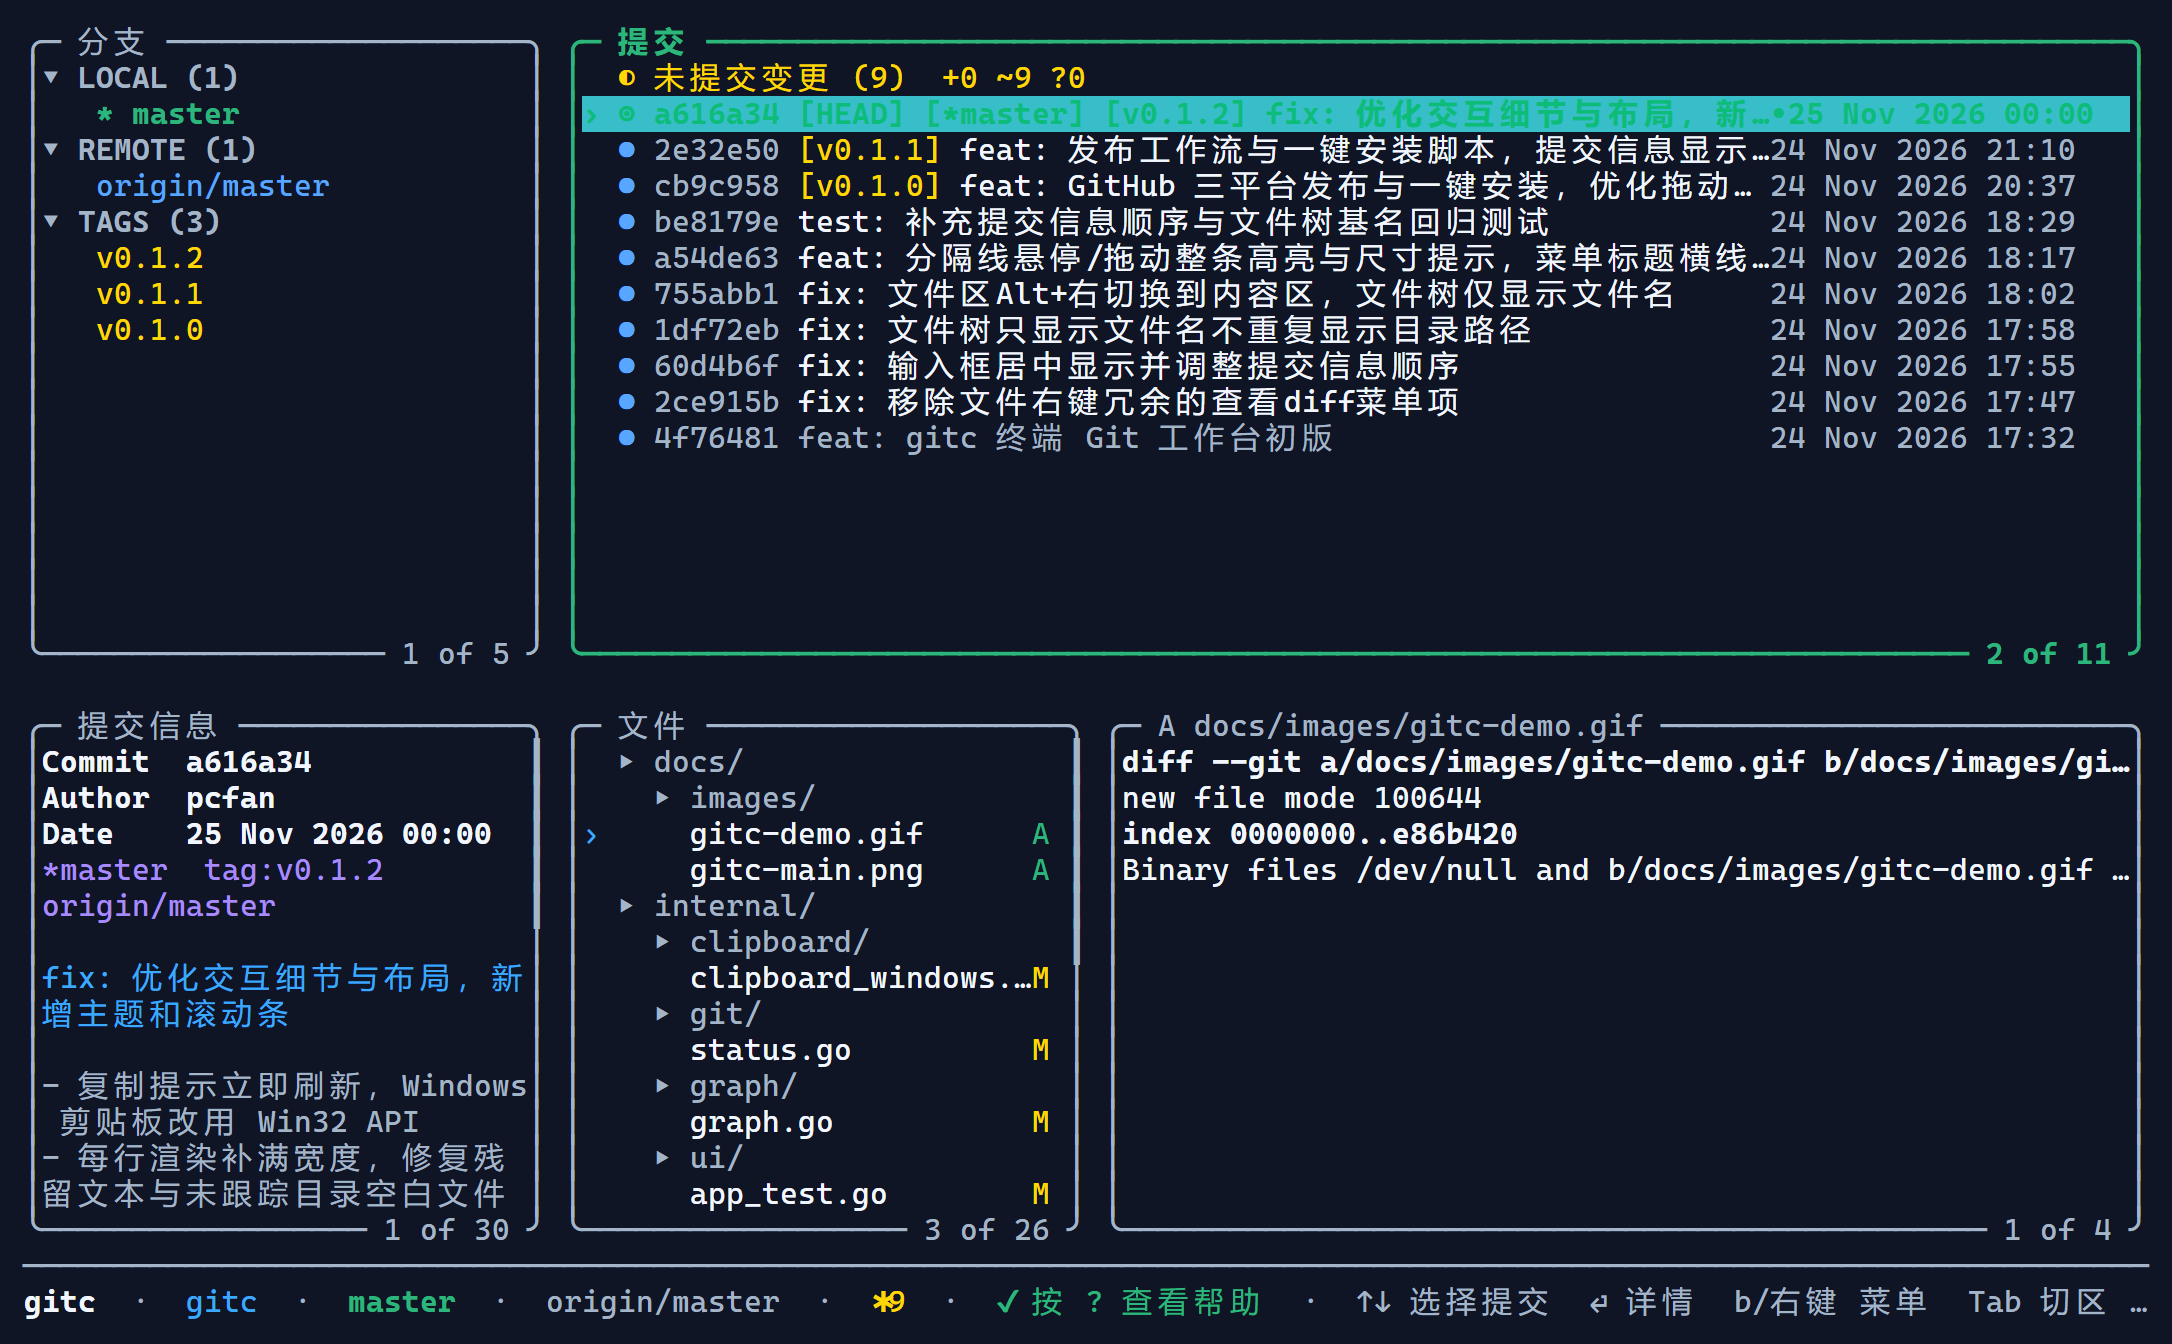
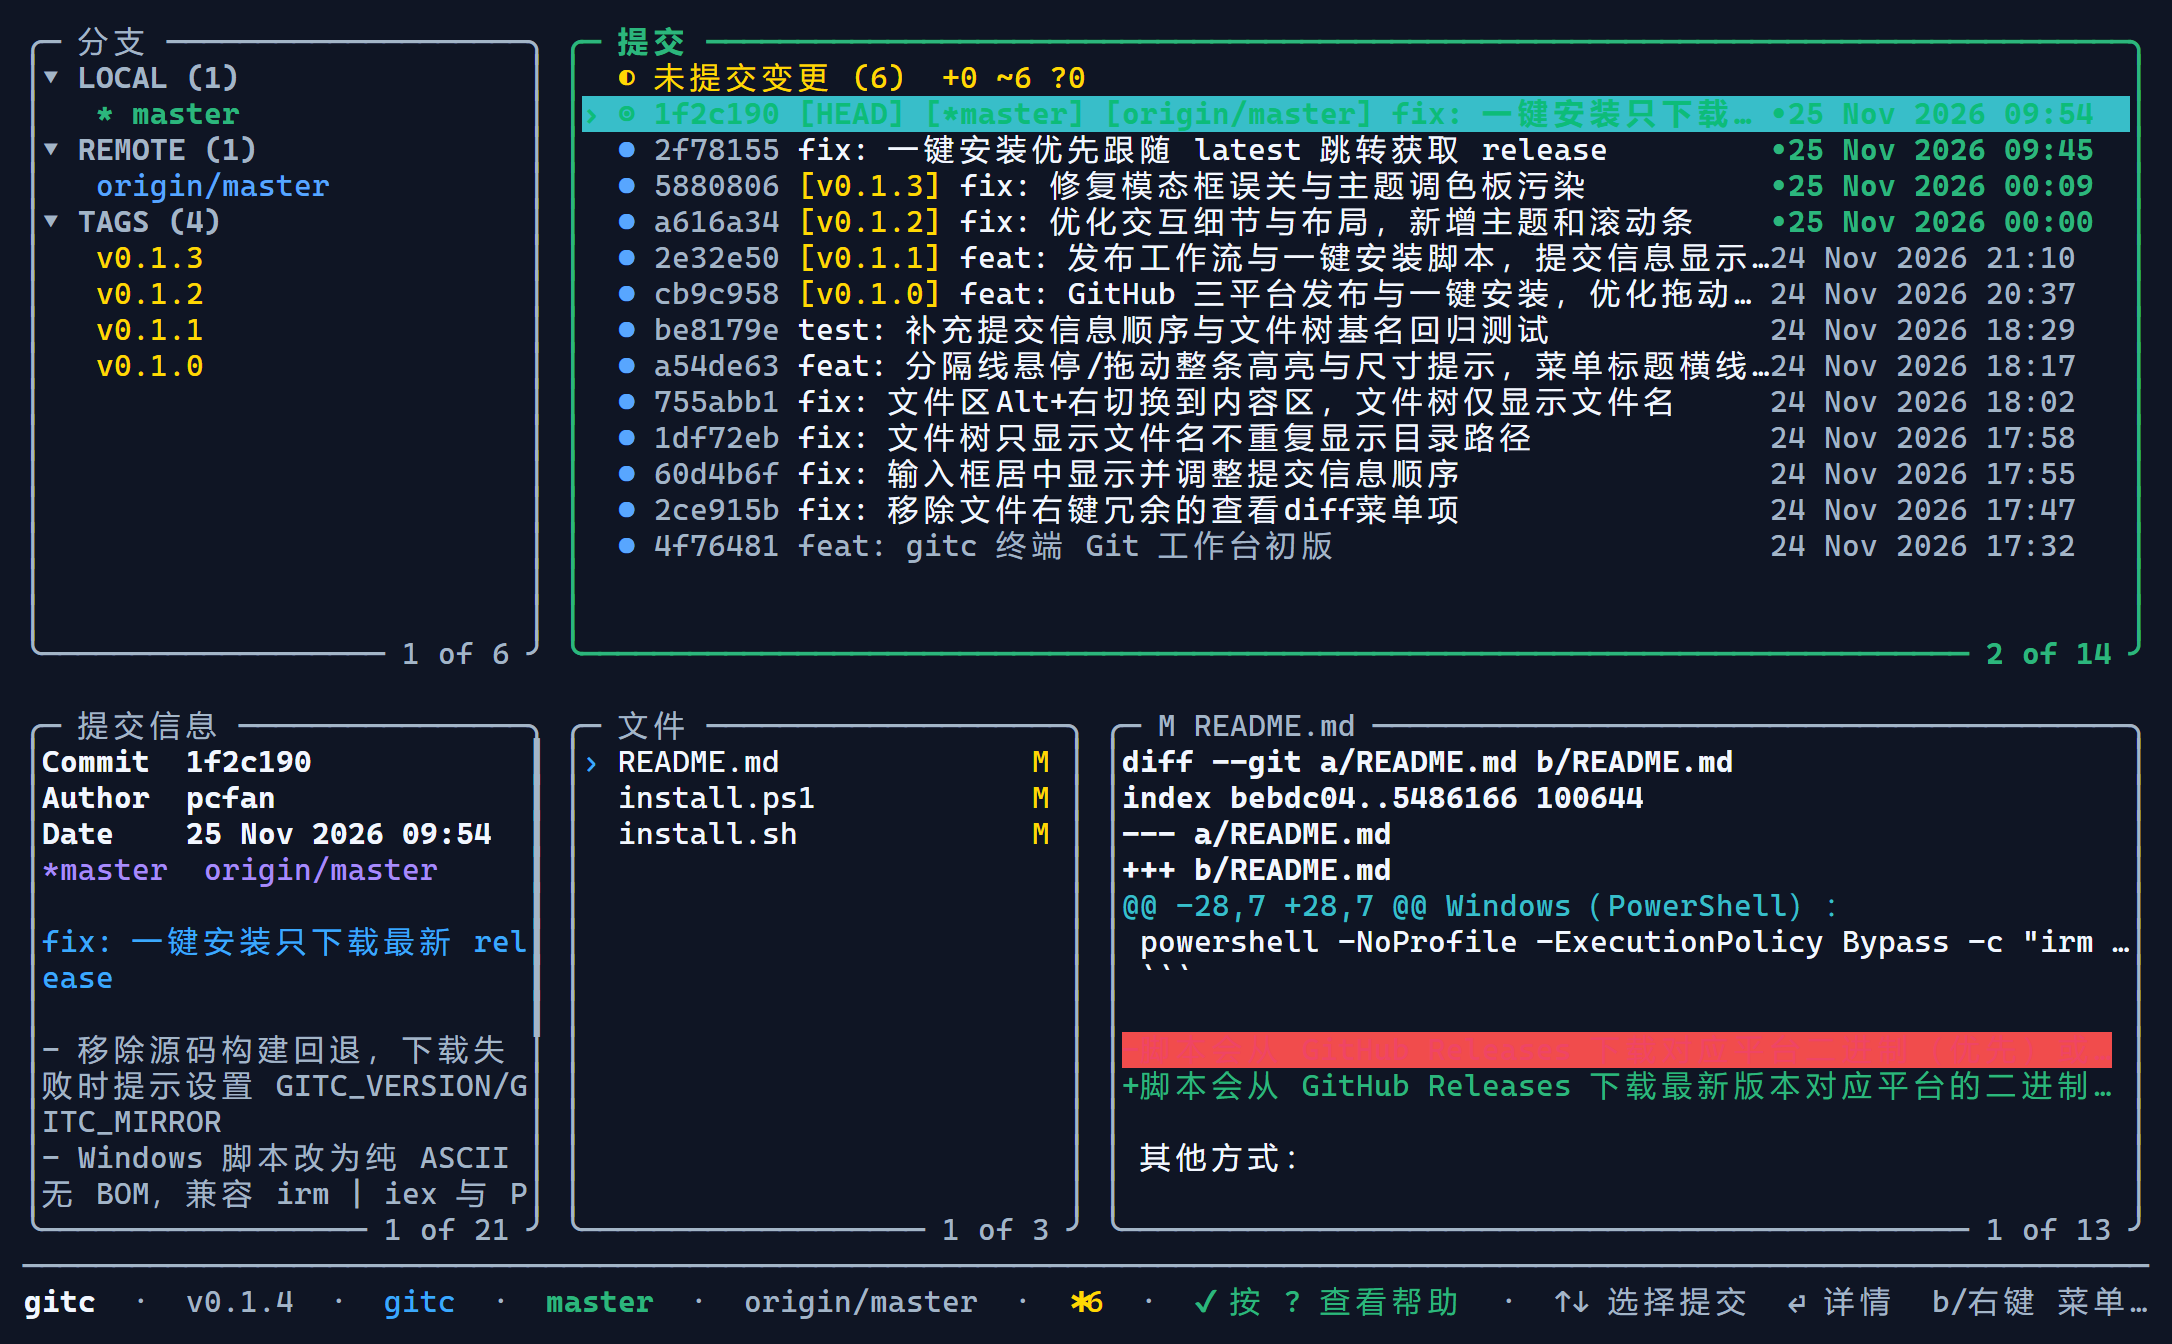
feat: 底部显示 Release 版本号
- 版本由 release 构建通过 ldflags 注入，本地构建不显示
- 底部左侧显示 vX.Y.Z，--version 本地构建显示 dev
- 更新 README 与示意图

diff --git a/main.go b/main.go
@@ -16,7 +16,16 @@ import (
 	"github.com/ssk-wh/gitc/internal/ui"
 )
 
-var version = "0.1.0"
+// version 由 release 构建通过 -ldflags "-X main.version=vX.Y.Z" 注入；
+// 本地构建为空，界面不显示版本号。
+var version = ""
+
+func displayVersion() string {
+	if version == "" {
+		return "dev"
+	}
+	return version
+}
 
 func main() {
 	dir := flag.String("C", ".", "仓库目录")
@@ -28,7 +37,7 @@ func main() {
 	flag.Parse()
 
 	if *showVersion {
-		fmt.Println("gitc", version)
+		fmt.Println("gitc", displayVersion())
 		return
 	}
 	i18n.Set(i18n.Detect())
@@ -52,6 +61,7 @@ func main() {
 		os.Exit(2)
 	}
 
+	ui.SetVersion(version)
 	app := ui.New(repo)
 	repo.SetCommandHook(app.LogCommand)
 	cfg := config.Load()
@@ -86,10 +96,10 @@ func usage() {
 选项:
   -C <dir>       指定仓库目录（默认当前目录）
   --lang <l>     界面语言：zh / en（默认跟随 LANG）
-  --theme <名>   主题：default / light / high-contrast（覆盖配置）
+  --theme <名>   主题：default / light / ocean / forest / fire / rose / high-contrast（覆盖配置）
   --check        输出仓库摘要后退出（供 CI/脚本使用）
   --version      显示版本
-`, version)
+`, displayVersion())
 }
 
 // runCheck 输出仓库摘要，便于无终端环境验证。

diff --git a/internal/ui/view.go b/internal/ui/view.go
@@ -242,6 +242,12 @@ func padRight(s string, w int) string {
 }
 
 // viewHeader 渲染顶部信息栏。
+// buildVersion 是 Release 构建注入的 tag；本地构建为空。
+var buildVersion string
+
+// SetVersion 设置界面显示的版本号（空字符串表示不显示）。
+func SetVersion(v string) { buildVersion = v }
+
 func (a *App) viewHeader() string {
 	branch := sanitize.Line(a.status.Branch)
 	if a.status.Detached {
@@ -254,11 +260,17 @@ func (a *App) viewHeader() string {
 	if branch == "" {
 		branch = "-"
 	}
-	parts := []string{
-		styleTitle.Render("gitc"),
+	parts := []string{styleTitle.Render("gitc")}
+	if v := strings.TrimSpace(buildVersion); v != "" {
+		if !strings.HasPrefix(v, "v") {
+			v = "v" + v
+		}
+		parts = append(parts, styleDim.Render(v))
+	}
+	parts = append(parts,
 		styleAccent.Render(sanitize.Line(a.svc.Name())),
 		styleGood.Bold(true).Render(branch),
-	}
+	)
 	if a.status.Upstream != "" {
 		parts = append(parts, styleDim.Render(a.status.Upstream))
 	}

diff --git a/internal/ui/app_test.go b/internal/ui/app_test.go
@@ -1764,3 +1764,17 @@ func TestModalReleaseOnlyClosesChoice(t *testing.T) {
 		t.Fatal("release 在菜单外应关闭选择菜单")
 	}
 }
+
+// TestFooterShowsBuildVersion Release 构建显示版本，本地构建不显示。
+func TestFooterShowsBuildVersion(t *testing.T) {
+	t.Cleanup(func() { SetVersion("") })
+	SetVersion("v9.9.9")
+	a, _ := newFakeApp(t)
+	if v := plainView(a); !strings.Contains(v, "v9.9.9") {
+		t.Fatal("底部未显示构建版本")
+	}
+	SetVersion("")
+	if v := plainView(a); strings.Contains(v, "v9.9.9") {
+		t.Fatal("本地构建不应显示版本")
+	}
+}

diff --git a/internal/ui/demo_frames_test.go b/internal/ui/demo_frames_test.go
@@ -30,6 +30,8 @@ func TestDumpRealFrames(t *testing.T) {
 		t.Fatal(err)
 	}
 	i18n.Set("zh")
+	SetVersion("v0.1.4")
+	defer SetVersion("")
 	lipgloss.SetColorProfile(termenv.TrueColor)
 	lipgloss.SetHasDarkBackground(true)
 	a := New(svc)

diff --git a/README.md b/README.md
@@ -62,7 +62,7 @@ gitc --version
 lazygit 风格工作台：每个区域一个完整边框，左上角中文标题、右下角显示 `x of y` 计数，焦点区域边框为绿色。
 
 - 左栏两块：分支、提交信息；右侧四块：提交、工作区文件、内容、命令日志（无操作记录时隐藏）。工作区改动在提交列表首行“未提交变更”，进入文件区即可暂存/丢弃。
-- 顶部不再有全局 header，右侧区域直接顶到屏幕最上方；仓库/分支/状态摘要与按键提示合并在底部一行。
+- 顶部不再有全局 header，右侧区域直接顶到屏幕最上方；底部一行显示版本（Release 构建）、仓库/分支/状态摘要与按键提示，本地构建不显示版本。
 - 提交选中行整行背景高亮；提交按作者日期倒序，时间格式 `17 Nov 2026 17:15`（当天带 `•`）。
 - 提交信息头部固定为 `Commit / Author / Date` 两列对齐，下面显示引用、标题与正文。
 - 提交行同时显示分支与 tag 徽标：tag 黄色，分支按最近提交时间分配 20 种颜色。
